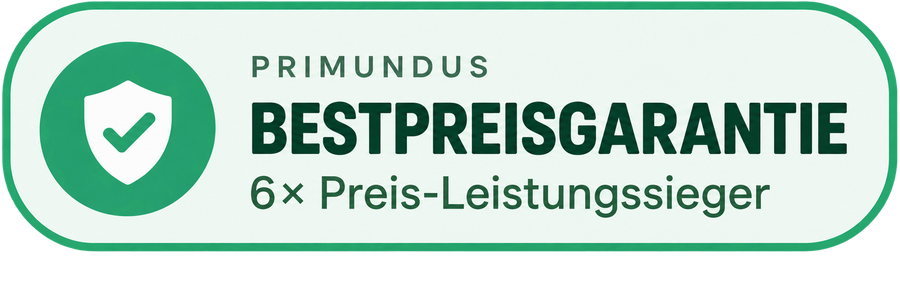
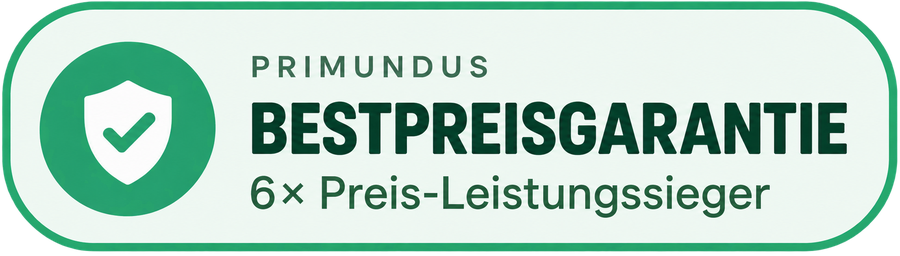
Siegel-Datei ohne leeren Rand (VORSCHAU, Zweig apex-garantie)

Changed region(s): [[0.0, 0.125, 1.0, 1.0], [0.0, 0.0, 1.0, 0.4375], [0.28, 0.1875, 0.56, 0.3125]]

diff --git a/app/page.tsx b/app/page.tsx
@@ -387,7 +387,7 @@ export default function Page() {
         {/* ── BESTPREISGARANTIE (Martin 12.09.2026: eigener Bereich; Ton verbindlich, ruhig) ── */}
         <section className="py-14 md:py-16 lg:py-20 px-5 bg-pm-paper">
           <div className="max-w-wide mx-auto">
-            <img loading="lazy" width={900} height={296} src="/images/bestpreisgarantie-siegel.webp" alt="Primundus Bestpreisgarantie – 6× Preis-Leistungssieger" className="h-[72px] md:h-[84px] w-auto mb-5" />
+            <img loading="lazy" width={900} height={256} src="/images/bestpreisgarantie-siegel.webp" alt="Primundus Bestpreisgarantie – 6× Preis-Leistungssieger" className="h-[72px] md:h-[84px] w-auto mb-5" />
             <h2 className="text-[26px] md:text-[32px] lg:text-[36px] leading-[1.25] font-bold text-pm-ink mb-3">
               Bei uns zahlen Sie nie mehr als für ein vergleichbares Angebot.
             </h2>
